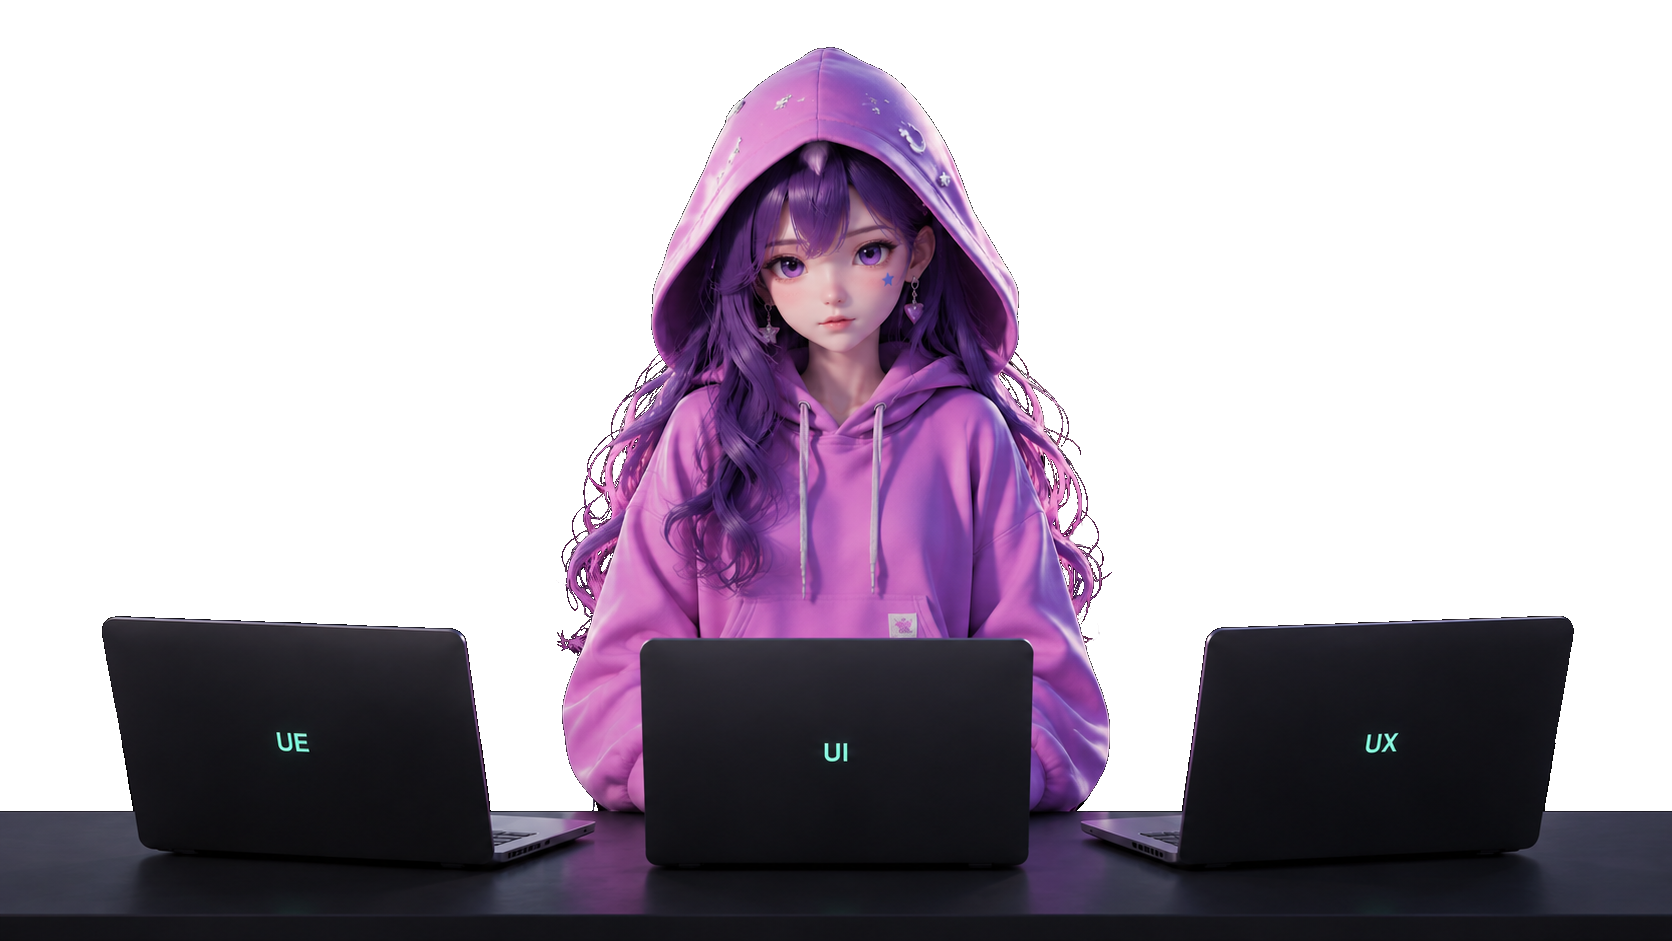
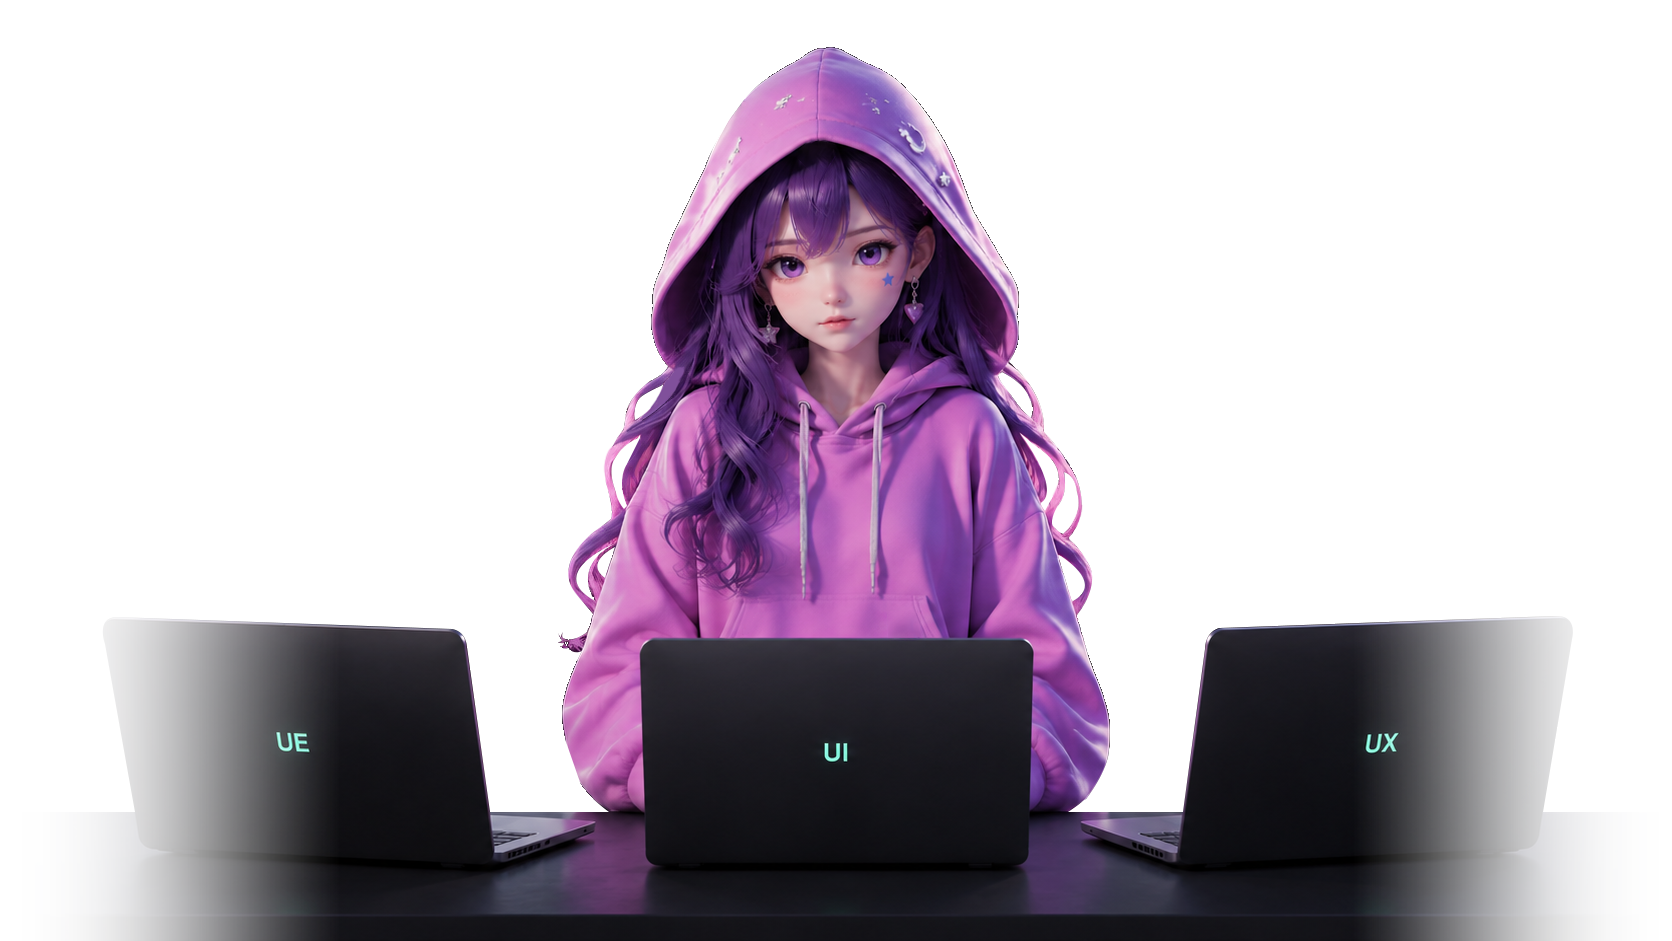
五个圆改为整体联动：悬浮/点击任一圆，五个圆同时变化

diff --git a/index.html b/index.html
@@ -268,9 +268,14 @@
     .round-link span{color:var(--mint);font-size:18px}.round-link:hover{background:var(--mint);color:var(--ink);box-shadow:0 0 50px rgba(179,252,230,.22)}
     .download-btn{height:44px;background:#111a22b8;border:1px solid #B3FCE6;border-radius:4px;color:#B3FCE6;font-family:Alibaba PuHuiTi 3.0;font-size:16px;font-weight:400;cursor:pointer;transition:all 0.3s;text-align:center;display:flex;align-items:center;justify-content:center;gap:8px}
     .download-btn:hover{background:#B3FCE6;color:#111111}
-    .view-works-circles{display:flex;gap:12px;align-items:center;margin-left:0!important}
-    .view-circle{width:52px!important;min-width:52px!important;height:52px!important;border-radius:50%!important;font-size:20px!important;padding:0!important;line-height:1;text-decoration:none}
-    .view-circle-arrow{font-size:22px!important}
+    .view-works-circles{display:flex;gap:12px;align-items:center;margin-left:0!important;text-decoration:none;position:relative}
+    .view-circle{width:52px;min-width:52px;height:52px;border-radius:50%;font-size:20px;padding:0;line-height:1;display:flex;align-items:center;justify-content:center;background:#111a22b8;border:1px solid #B3FCE6;color:#B3FCE6;font-family:"Alibaba PuHuiTi 3.0",sans-serif;font-weight:400;transition:all 0.3s;cursor:pointer;user-select:none;position:relative;z-index:1}
+    .view-circle-arrow{font-size:22px}
+    /* 悬浮/点击任意圆，五个圆同时变成悬浮状态 */
+    .view-works-circles:hover .view-circle,.view-works-circles:active .view-circle{background:#B3FCE6;color:#111111}
+    .view-works-circles:active .view-circle{transform:scale(0.94)}
+    .view-works-circles .ripple{position:absolute;border-radius:50%;background:radial-gradient(circle,rgba(179,252,230,.35),rgba(243,174,228,.2));pointer-events:none;z-index:0;animation:viewRipple .6s ease-out forwards}
+    @keyframes viewRipple{0%{transform:scale(0);opacity:.4}100%{transform:scale(2);opacity:0}}
     .portrait-stage{position:absolute;z-index:4;right:-3.5%;bottom:-2%;width:min(74vw,1220px);pointer-events:none;transform-origin:65% 70%;will-change:transform}
     .portrait-stage img{display:block;width:100%;height:auto;filter:drop-shadow(0 -14px 50px rgba(243,174,228,.12))}
     .portrait-glow{position:absolute;inset:22% 18% 5%;z-index:-1;background:radial-gradient(circle,rgba(243,174,228,.18),rgba(179,252,230,.07) 40%,transparent 68%);filter:blur(25px)}
@@ -326,13 +331,13 @@
         <h1 id="hero-title"><span class="gradient-word">JORWEN</span><br><span class="gradient-word" data-lang-key="hero-title">个人作品集</span></h1>
         <div class="hero-meta" style="display:flex!important;flex-direction:column!important;align-items:flex-start!important;gap:56px!important;margin:52px 0 0 0!important;padding-left:0!important;justify-content:flex-start!important;text-align:left!important">
           <p style="margin:0!important;padding:0!important;text-align:left!important" data-lang-key="hero-desc">Hello！欢迎来到我的个人作品集网站！欢迎交流和合作~</p>
-          <div class="view-works-circles">
-            <a class="download-btn ripple-effect view-circle" href="#selected" data-lang-key="view-works-1">查</a>
-            <a class="download-btn ripple-effect view-circle" href="#selected" data-lang-key="view-works-2">看</a>
-            <a class="download-btn ripple-effect view-circle" href="#selected" data-lang-key="view-works-3">作</a>
-            <a class="download-btn ripple-effect view-circle" href="#selected" data-lang-key="view-works-4">品</a>
-            <a class="download-btn ripple-effect view-circle view-circle-arrow" href="#selected" data-lang-key="view-works-arrow">↘</a>
-          </div>
+          <a class="view-works-circles ripple-effect" href="#selected">
+            <span class="view-circle" data-lang-key="view-works-1">查</span>
+            <span class="view-circle" data-lang-key="view-works-2">看</span>
+            <span class="view-circle" data-lang-key="view-works-3">作</span>
+            <span class="view-circle" data-lang-key="view-works-4">品</span>
+            <span class="view-circle view-circle-arrow" data-lang-key="view-works-arrow">↘</span>
+          </a>
         </div>
       </div>
 
